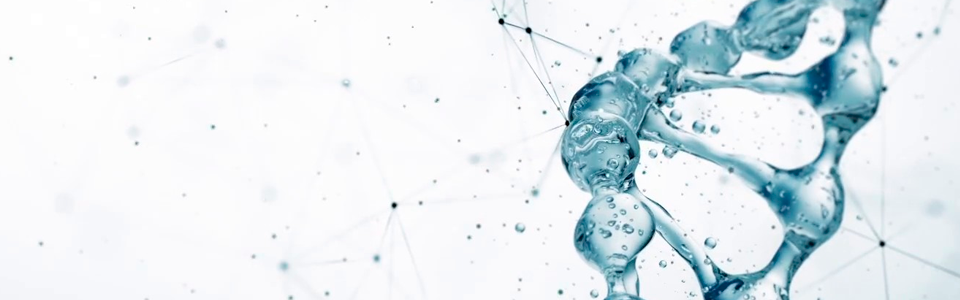
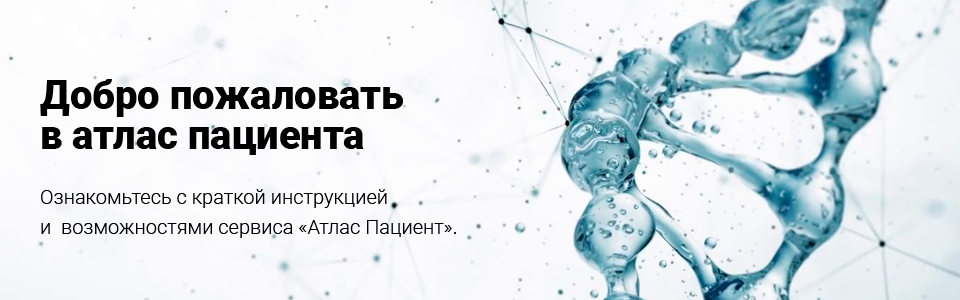
Добавлены преимущества и инструкция

diff --git a/index.html b/index.html
@@ -117,6 +117,69 @@
         <div class="main-title">
             <img src="images/title.png" alt="title">
         </div>
+        <div class="advantages-section">
+            <div class="advantages-title">
+                <h1>Возможности атлас пациента</h1>
+            </div>
+            <div class="advantages">
+                <div class="advantage">
+                    <div class="advantage-image">
+                        <img src="images/icons/diagnosis.png" alt="diagnosis">
+                    </div>
+                    <p class="advantage-text">В атласе пациента можно посмотреть все заключения по всем
+                        исследованиям</p>
+                </div>
+                <div class="advantage">
+                    <div class="advantage-image gray-image">
+                        <img src="images/icons/print.png" alt="print">
+                    </div>
+                    <p class="advantage-text">Из атласа пациента можно распечатать любое заключение</p>
+                </div>
+                <div class="advantage">
+                    <div class="advantage-image gray-image">
+                        <img src="images/icons/schedule.png" alt="schedule">
+                    </div>
+                    <div>
+                        <p class="advantage-text">Наглядное представление динамики изменений по каждому
+                            показателю</p>
+                    </div>
+                </div>
+                <div class="advantage">
+                    <div class="advantage-image">
+                        <img src="images/icons/heart.png" alt="heart">
+                    </div>
+                    <p class="advantage-text">Атлас пациента позволяет посмотреть результаты исследований
+                        удаленно</p>
+                </div>
+            </div>
+        </div>
+        <div class="manual">
+            <h2>Инструкция</h2>
+            <div class="manual-paragraph">
+                <div class="manual-description">
+                    <p class="manual-number">01</p>
+                    <div class="manual-text">
+                        <h3>Навигация по исследованиям</h3>
+                        <p>Для ознакомления с исследованиями выберите один из разделов меню</p>
+                    </div>
+                </div>
+                <div class="manual-image">
+                    <img src="images/info_1.png" alt="info">
+                </div>
+            </div>
+            <div class="manual-paragraph">
+                <div class="manual-image">
+                    <img src="images/info_2.png" alt="info">
+                </div>
+                <div class="manual-description">
+                    <p class="manual-number">02</p>
+                    <div class="manual-text">
+                        <h3>Динамика измерений</h3>
+                        <p>Для просмотра динамики исследований нажмите на кнопку</p>
+                    </div>
+                </div>
+            </div>
+        </div>
     </div>
 
 </main>

diff --git a/styles/pages/index.css b/styles/pages/index.css
@@ -30,3 +30,66 @@
 .main-title img {
     height: 400px;
 }
+
+.advantages {
+    display: flex;
+    flex-direction: row;
+    flex-wrap: wrap;
+}
+
+.advantage {
+    display: flex;
+    flex-direction: row;
+    width: 500px;
+    margin: 20px 20px 20px 0;
+}
+
+.advantage-image {
+    width: 200px;
+    height: 200px;
+    margin-right: 20px;
+    display: flex;
+    justify-content: center;
+    align-items: center;
+    background-color: #5ab678;
+}
+
+.gray-image {
+    background-color: #e8e8e8;
+}
+
+.advantage-text {
+    width: 300px;
+    font-size: 20px;
+}
+
+.manual {
+    display: flex;
+    flex-direction: column;
+}
+
+.manual-paragraph {
+    display: flex;
+    flex-direction: row;
+    justify-content: center;
+    align-items: center;
+    width: 1100px;
+}
+
+.manual-description {
+    display: flex;
+    flex-direction: row;
+    width: 600px;
+}
+
+.manual-number {
+    font-size: 128px;
+    font-weight: bold;
+    color: #e8e8e8;
+    margin: 10px;
+}
+
+.manual-text {
+    font-size: 20px;
+    margin: 10px;
+}
